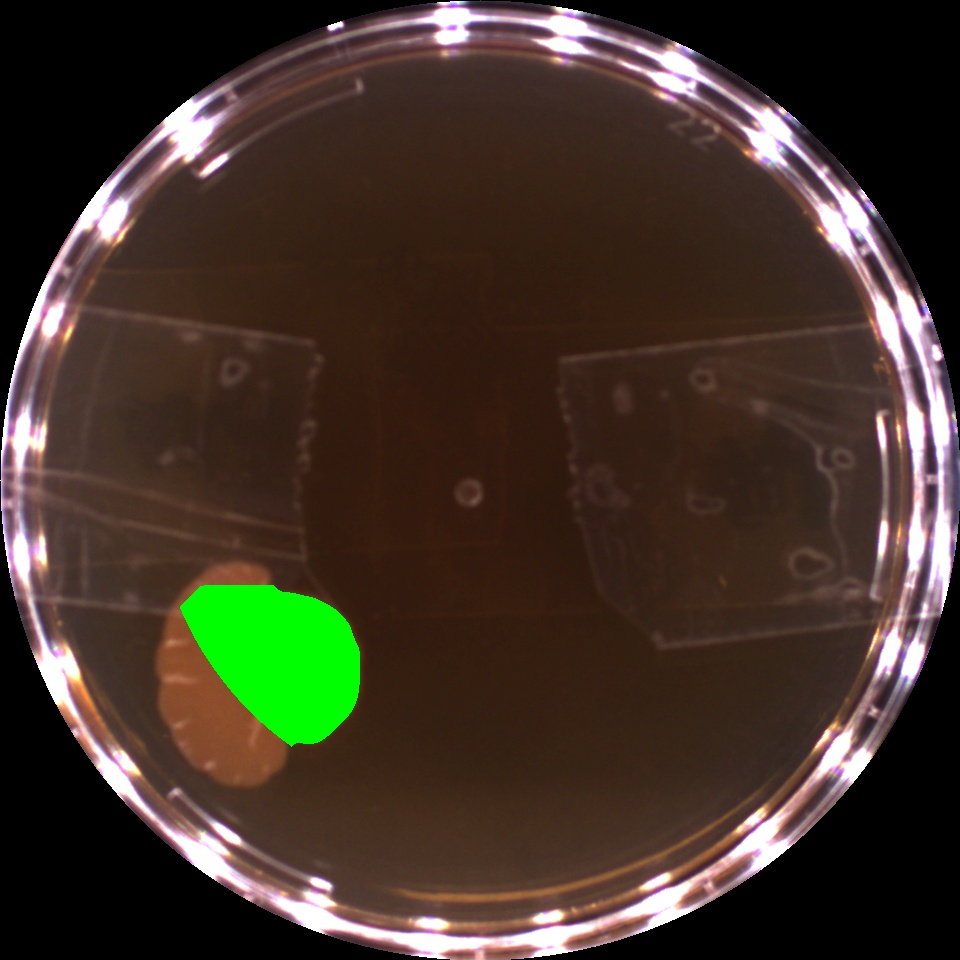
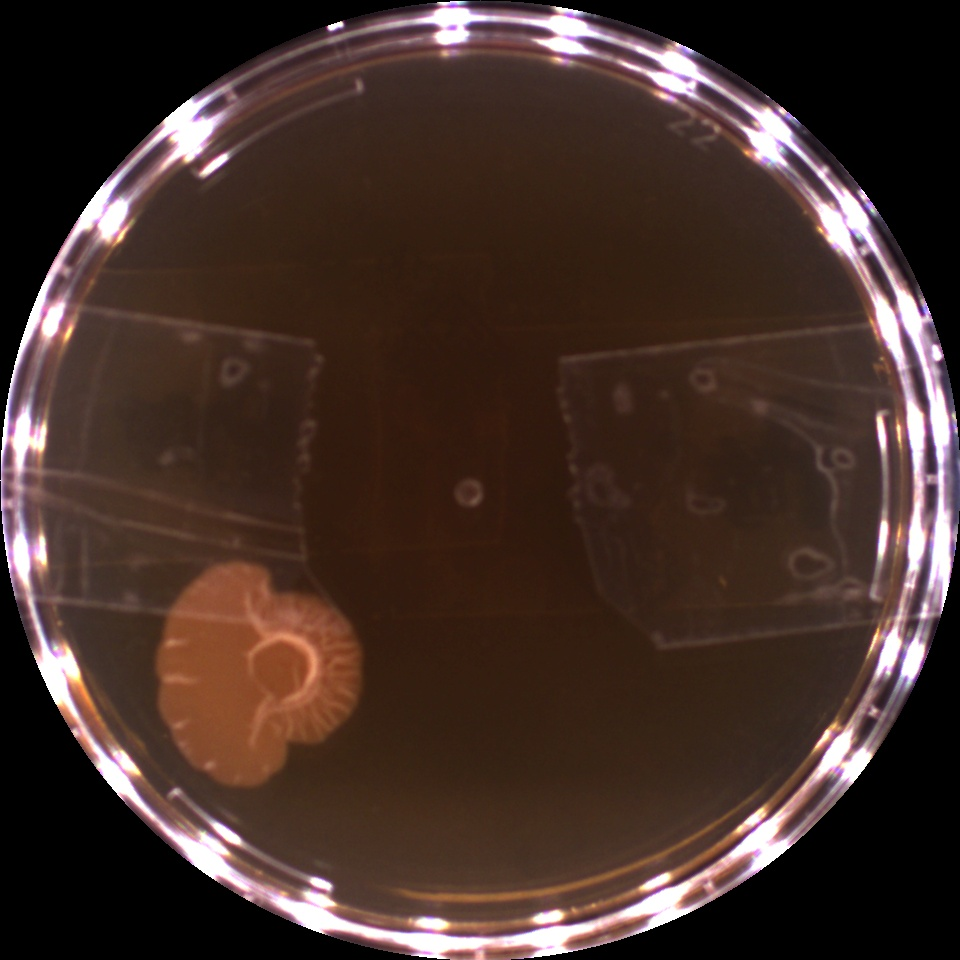
Simple blob detector

Changed region(s): [[0.1875, 0.5938, 0.375, 0.7812]]

diff --git a/counter.py b/counter.py
@@ -46,6 +46,35 @@ def define_circular_ROI(image):
 T1 = 60
 T2 = 100
 
+# Setup SimpleBlobDetector parameters.
+params = cv2.SimpleBlobDetector_Params()
+
+#Change thresholds
+params.minThreshold = 10
+params.maxThreshold = 250
+params.thresholdStep = 10
+#params.minDistBetweenBlobs = 10
+
+# Filter by Area.
+#params.filterByArea = True
+#params.minArea = 1500
+
+# Filter by Circularity
+#params.filterByCircularity = True
+#params.minCircularity = 0.1
+
+# Filter by Convexity
+#params.filterByConvexity = True
+#params.minConvexity = 0.87
+
+# Filter by Inertia
+#params.filterByInertia = True
+#params.minInertiaRatio = 0.01
+
+# Create a detector with the parameters
+# OLD: detector = cv2.SimpleBlobDetector(params)
+detector = cv2.SimpleBlobDetector_create(params)
+
 for file in file_names:
     #Read the image images
     img = cv2.imread(folder_path+'/'+file)
@@ -54,7 +83,7 @@ for file in file_names:
     img_gray = cv2.cvtColor(img, cv2.COLOR_BGR2GRAY)
 
     #Filter out dust and pepper
-    img_blur = cv2.medianBlur(img_gray,17)
+    img_blur = cv2.medianBlur(img_gray,1)
 
     #Define the center and the radius of the ROI
     X_cent, Y_cent, Rad = define_circular_ROI(img_blur)
@@ -64,39 +93,13 @@ for file in file_names:
     mask = create_circular_mask(H, W, (X_cent, Y_cent), Rad)
     img_blur[~mask] = 0
 
-    #Set everything below T1 to 0
-    img_blur[img_blur<T1] = 0
+	# Detect blobs.
+    keypnts = detector.detect(img_blur)
+    print('{} has {} blobs'.format(file.split('.')[0], len(keypnts)))
 
-    #Set everything at or above T2 to 0
-    img_blur[img_blur>=T2] = 255
-
-    #Do the hysteresis threshold
-    for i in range(1,H-1):
-        for k in range(1,W-1):
-            neigbours = np.array([
-                         img_blur[i-1,k-1], 
-                         img_blur[i,k-1],
-                         img_blur[i-1,k],
-                         img_blur[i+1,k+1],
-                         img_blur[i+1,k],
-                         img_blur[i,k+1],
-                         img_blur[i-1,k+1],
-                         img_blur[i+1,k-1]])
-            #If no neigbour pixel is positive, set this to negative
-            if (img_blur[i,k]<T2 and neigbours.max() <T2):
-                img_blur[i,k] = 0
-            
-            #If there is a positive neigbour, set this to positive
-            elif (img_blur[i,k]>T1 and neigbours.max() >=T2):
-                img_blur[i,k] = 255
-
-    #Use img_blur as a mask to highlight colonies on teh original image
-    img[img_blur>0] = [0,255,0]
-
-    '''            
-    #Apply dynamic thresholding
-    niBlack = cv2.ximgproc.niBlackThreshold(img_blur, 255, cv2.THRESH_BINARY, 101,0.7,cv2.ximgproc.BINARIZATION_NIBLACK)
-    '''
-
+	# Draw detected blobs as red circles.
+	# cv2.DRAW_MATCHES_FLAGS_DRAW_RICH_KEYPOINTS ensures the size of the circle corresponds to the size of blob
+    im_with_keys = cv2.drawKeypoints(img, keypnts, np.array([]), (0,255,0), cv2.DrawMatchesFlags_DRAW_RICH_KEYPOINTS)
+	
     #Write the final image
-    cv2.imwrite(processed_path+'/'+file, img)
+    cv2.imwrite(processed_path+'/'+file, im_with_keys)
